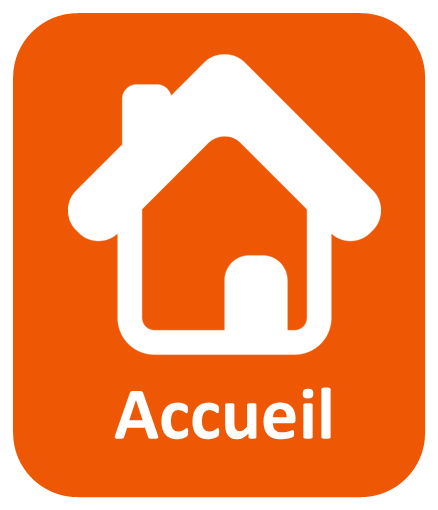
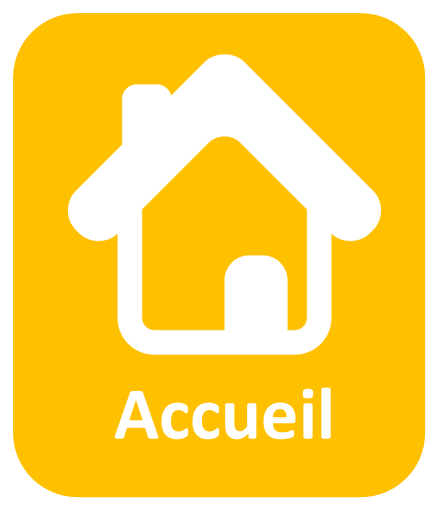
update ihm detailProduit

diff --git a/manufacture/manufactureWEB/src/main/webapp/resources/css/detailProduitCss.css b/manufacture/manufactureWEB/src/main/webapp/resources/css/detailProduitCss.css
@@ -1,0 +1,73 @@
+#divMenuBtn
+{
+    display:none;
+}
+
+.product-description{
+   background-color:#f1f1f1;
+   border:1px solid #e5e5e5;
+   border-radius:5px;
+   margin-right:20px;
+   display:inline-block;
+}
+
+.product-description h2
+{
+    font-family:Arial;
+    margin:10px;
+    margin-bottom:20px;
+    border-bottom:1px solid lightgrey;
+    padding-bottom:10px;
+}
+
+.product-description h2 button
+{
+    float:right;
+    font-size:small;
+}
+
+.product-description img
+{
+    float:left;
+    margin-right:15px;
+    margin-left:15px;
+    box-shadow: 4px 4px 12px #aaa;
+}
+
+.product-description fieldset
+{
+    font-family:Arial;
+    font-size:15px;
+    border:none;
+    margin-left:30px;
+    float:left;
+    width:35%;
+}
+
+.product-description fieldset legend
+{
+    font-size:18px;
+    font-weight:bold;
+    margin-bottom:10px;
+    margin-left:10px;
+}
+
+.product-description fieldset label
+{
+    display:inline-block;
+    font-size:14px;
+    width:50%;
+}
+
+.product-description fieldset select
+{
+    display:inline-block;
+    font-size:14px;
+    width:50%;
+}
+
+.product-description fieldset ul li {
+    font-size:small;
+    margin-left:30px;
+    font-style:italic;
+}

diff --git a/manufacture/manufactureWEB/src/main/webapp/resources/css/style.css b/manufacture/manufactureWEB/src/main/webapp/resources/css/style.css
@@ -43,7 +43,6 @@
 /* ********* debut ********* */
 #menu {
 	height: 100px;
-	width: 100%;
 	background-color: silver;
 	padding-left:27%;
 }
@@ -202,6 +201,24 @@
 }
 
 /* ********* Header ********* */
+
+#logo img
+{
+	height:100px;
+	margin-top:20px;
+	margin-left:15%;
+	float:left;
+}
+
+#logo label
+{
+	float:left;
+	color:white;
+	font-size:80px;
+	margin-left:60px;
+	font-family:Arial;
+	margin-top:20px;
+}
 
 #header {
 	height: 150px;

diff --git a/manufacture/manufactureWEB/src/main/webapp/resources/css/catalogCss.css b/manufacture/manufactureWEB/src/main/webapp/resources/css/catalogCss.css
@@ -43,7 +43,7 @@
 
 .sidebar-left a:hover
 {
-  background: #f5742e;
+  background: #FF9900;
   text-decoration: none;
 }
 
